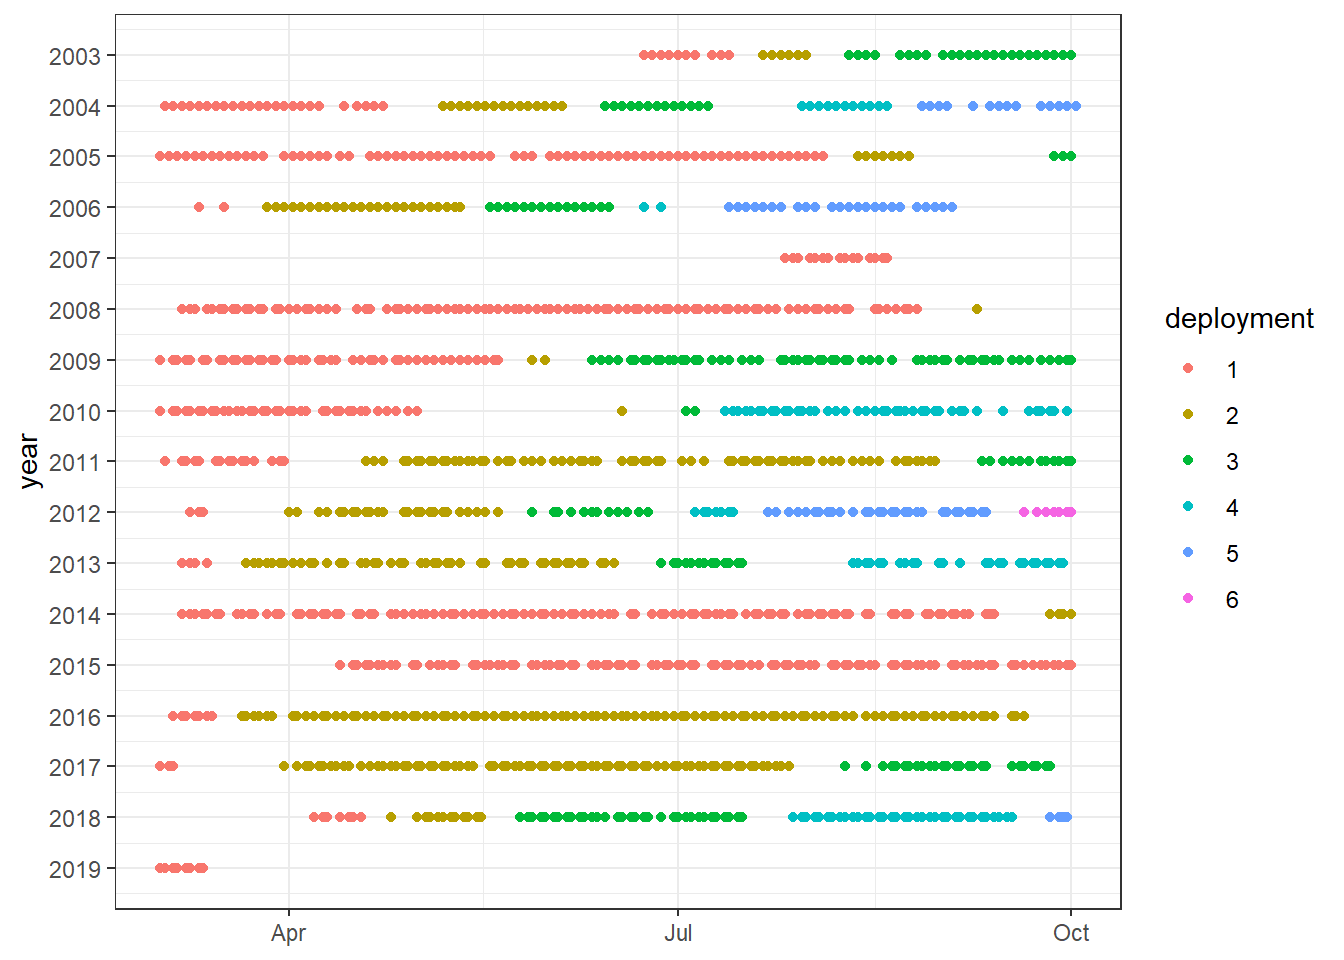
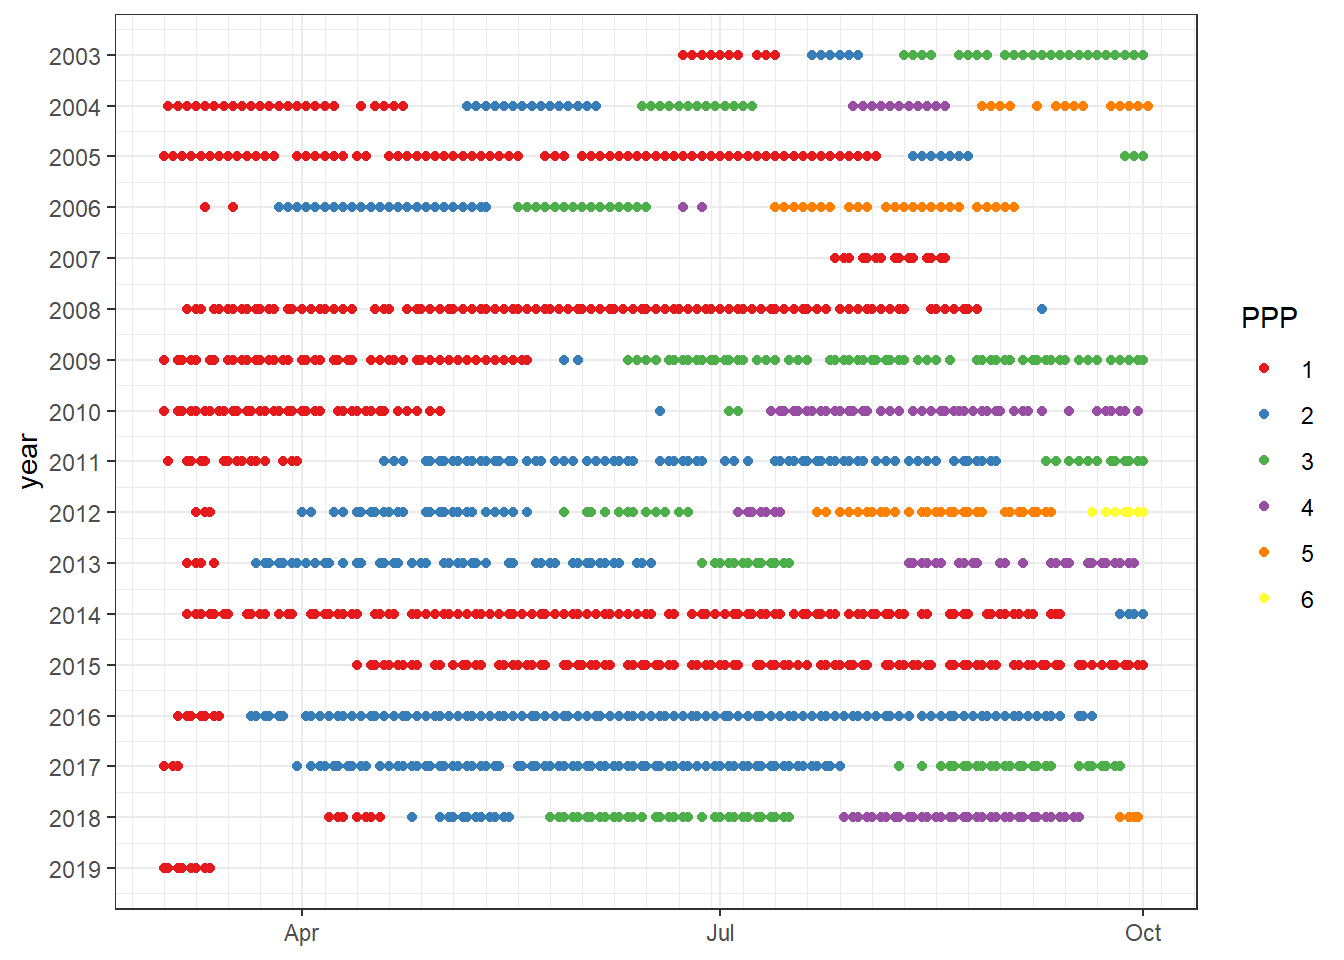
Build site.

diff --git a/docs/CT.html b/docs/CT.html
@@ -542,16 +542,16 @@ This reproducible <a href="http://rmarkdown.rstudio.com">R Markdown</a> analysis
 <div class="panel panel-default">
 <div class="panel-heading">
 <p class="panel-title">
-<a data-toggle="collapse" data-parent="#workflowr-checks" href="#strongRepositoryversionstrongahrefhttpsgithubcomjensdanielmuellerBalticProductivitytree5528d3dfc6b9413a3a620a7b1013e8727c42af8atargetblank5528d3da"> <span class="glyphicon glyphicon-ok text-success" aria-hidden="true"></span> <strong>Repository version:</strong> <a href="https://github.com/jens-daniel-mueller/Baltic_Productivity/tree/5528d3dfc6b9413a3a620a7b1013e8727c42af8a" target="_blank">5528d3d</a> </a>
+<a data-toggle="collapse" data-parent="#workflowr-checks" href="#strongRepositoryversionstrongahrefhttpsgithubcomjensdanielmuellerBalticProductivitytreee801aae9a7a8a3ae40e6b0096bfa387f037c39edtargetblanke801aaea"> <span class="glyphicon glyphicon-ok text-success" aria-hidden="true"></span> <strong>Repository version:</strong> <a href="https://github.com/jens-daniel-mueller/Baltic_Productivity/tree/e801aae9a7a8a3ae40e6b0096bfa387f037c39ed" target="_blank">e801aae</a> </a>
 </p>
 </div>
[2 lines of base64/hex data omitted]
 <div class="panel-body">
 <p>
 Great! You are using Git for version control. Tracking code development and connecting the code version to the results is critical for reproducibility.
 </p>
 <p>
-The results in this page were generated with repository version <a href="https://github.com/jens-daniel-mueller/Baltic_Productivity/tree/5528d3dfc6b9413a3a620a7b1013e8727c42af8a" target="_blank">5528d3d</a>. See the <em>Past versions</em> tab to see a history of the changes made to the R Markdown and HTML files.
+The results in this page were generated with repository version <a href="https://github.com/jens-daniel-mueller/Baltic_Productivity/tree/e801aae9a7a8a3ae40e6b0096bfa387f037c39ed" target="_blank">e801aae</a>. See the <em>Past versions</em> tab to see a history of the changes made to the R Markdown and HTML files.
 </p>
 <p>
 Note that you need to be careful to ensure that all relevant files for the analysis have been committed to Git prior to generating the results (you can use <code>wflow_publish</code> or <code>wflow_git_commit</code>). workflowr only checks the R Markdown file, but you know if there are other scripts or data files that it depends on. Below is the status of the Git repository when the results were generated:
@@ -604,6 +604,40 @@ Message
 </tr>
 </thead>
 <tbody>
+<tr>
+<td>
+Rmd
+</td>
+<td>
+<a href="https://github.com/jens-daniel-mueller/Baltic_Productivity/blob/e801aae9a7a8a3ae40e6b0096bfa387f037c39ed/analysis/CT.Rmd" target="_blank">e801aae</a>
+</td>
+<td>
+jens-daniel-mueller
+</td>
+<td>
+2020-04-17
+</td>
+<td>
+figure aspect ratio and uniform color scales
+</td>
+</tr>
+<tr>
+<td>
+html
+</td>
+<td>
+<a href="https://rawcdn.githack.com/jens-daniel-mueller/Baltic_Productivity/c9c143e941266d65e2c338238063bfad9fa51de1/docs/CT.html" target="_blank">c9c143e</a>
+</td>
+<td>
+jens-daniel-mueller
+</td>
+<td>
+2020-04-17
+</td>
+<td>
+Build site.
+</td>
+</tr>
 <tr>
 <td>
 Rmd
@@ -1877,6 +1911,9 @@ df %&gt;%
   ggplot(aes( x = as.Date(yday(date)), y = year, color = deployment))+
   geom_point()+
   scale_y_reverse(breaks = seq(2000,2030,1))+
+  scale_x_date(date_minor_breaks = &quot;week&quot;,
+               date_labels = &quot;%b&quot;)+
+  scale_color_brewer(palette = &quot;Set1&quot;, name=&quot;PPP&quot;)+
   theme(axis.title.x = element_blank())</code></pre>
 <p><img src="figure/CT.Rmd/deployments-1.png" width="672" style="display: block; margin: auto;" /></p>
 <pre class="r"><code>df %&gt;% 
@@ -2129,7 +2166,7 @@ loaded via a namespace (and not attached):
 [41] munsell_0.5.0      httr_1.4.1         tools_3.6.3        grid_3.6.3        
 [45] nlme_3.1-145       gtable_0.3.0       utf8_1.1.4         DBI_1.1.0         
 [49] cli_2.0.2          readxl_1.3.1       yaml_2.2.1         crayon_1.3.4      
-[53] RColorBrewer_1.1-2 farver_2.0.3       later_1.0.0        promises_1.1.0    
+[53] farver_2.0.3       RColorBrewer_1.1-2 later_1.0.0        promises_1.1.0    
 [57] htmlwidgets_1.5.1  fs_1.4.0           vctrs_0.2.4        glue_1.3.2        
 [61] evaluate_0.14      labeling_0.3       reprex_0.3.0       stringi_1.4.6     </code></pre>
 </div>
